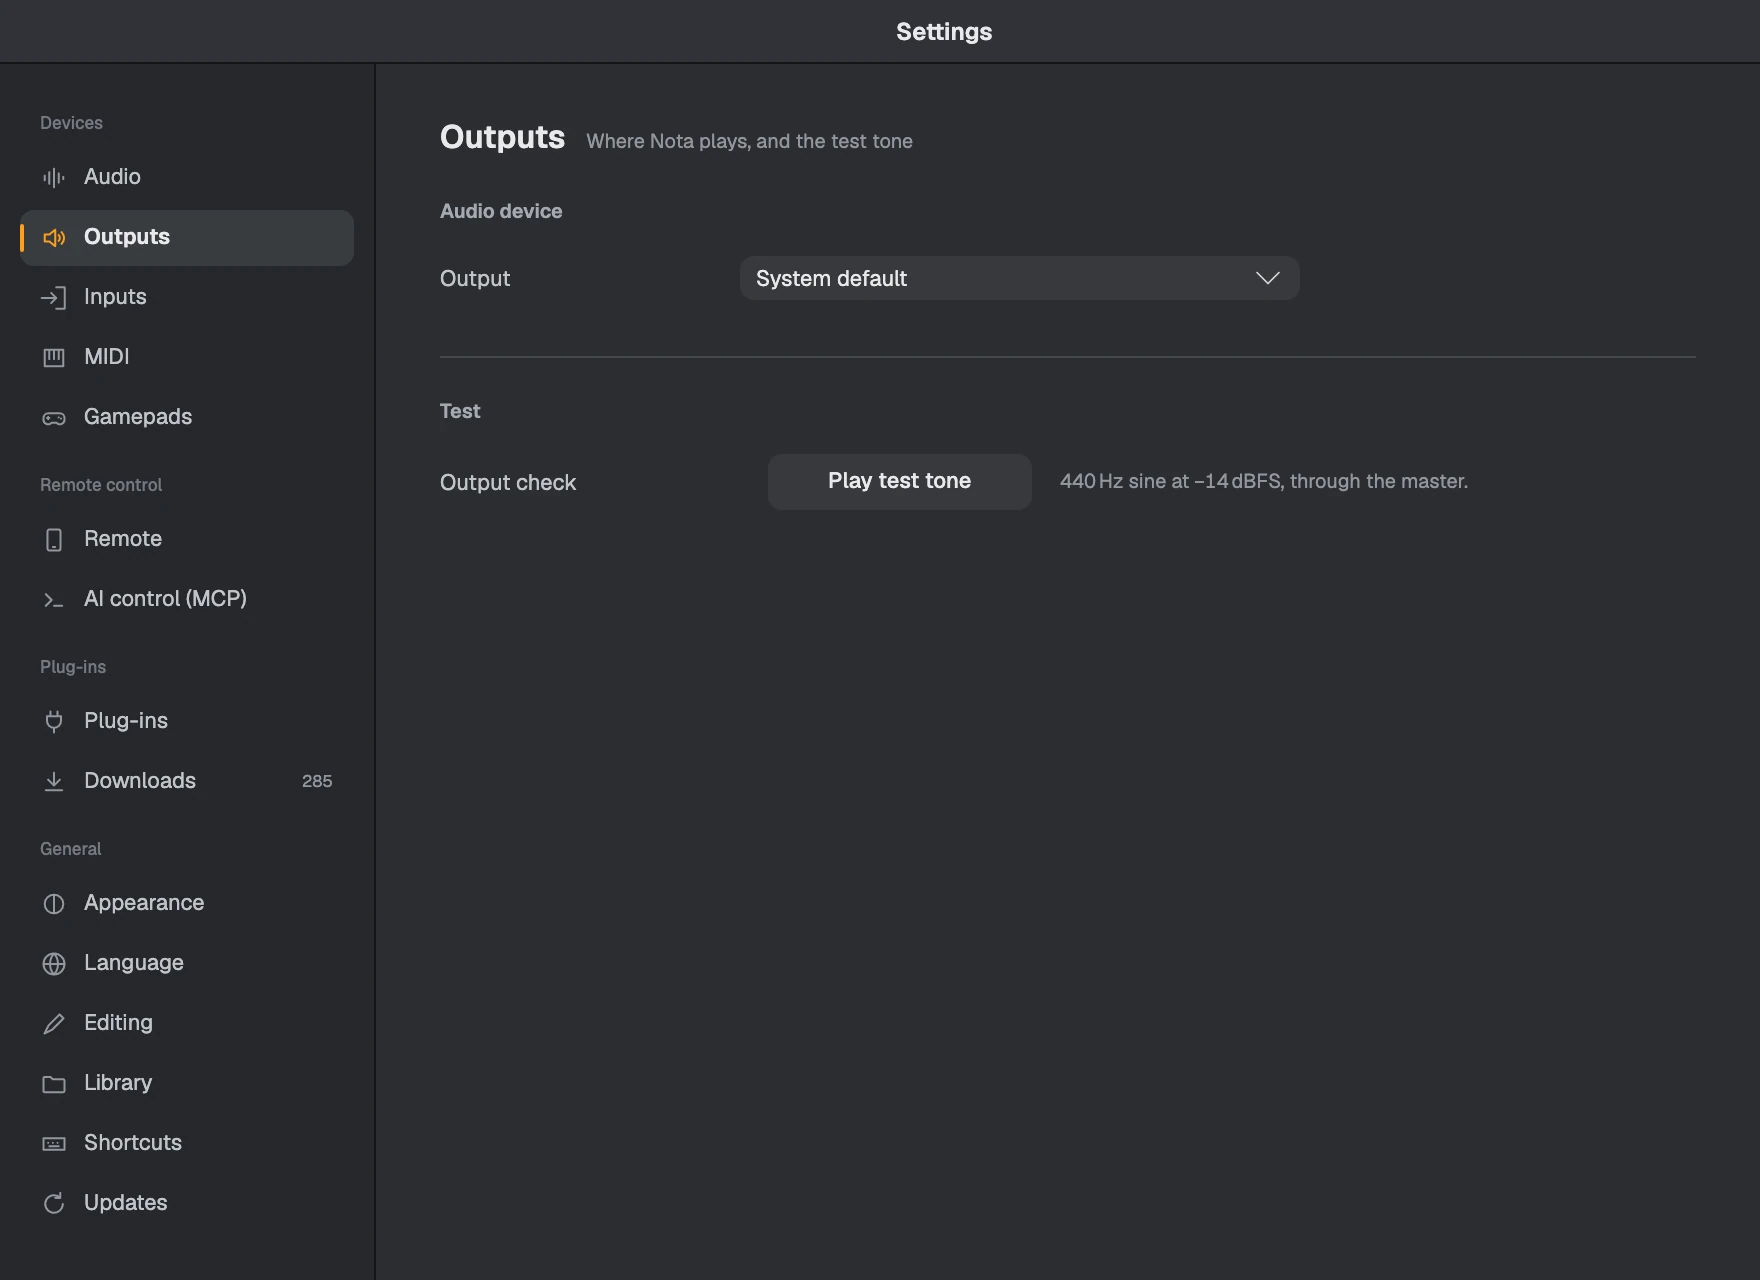
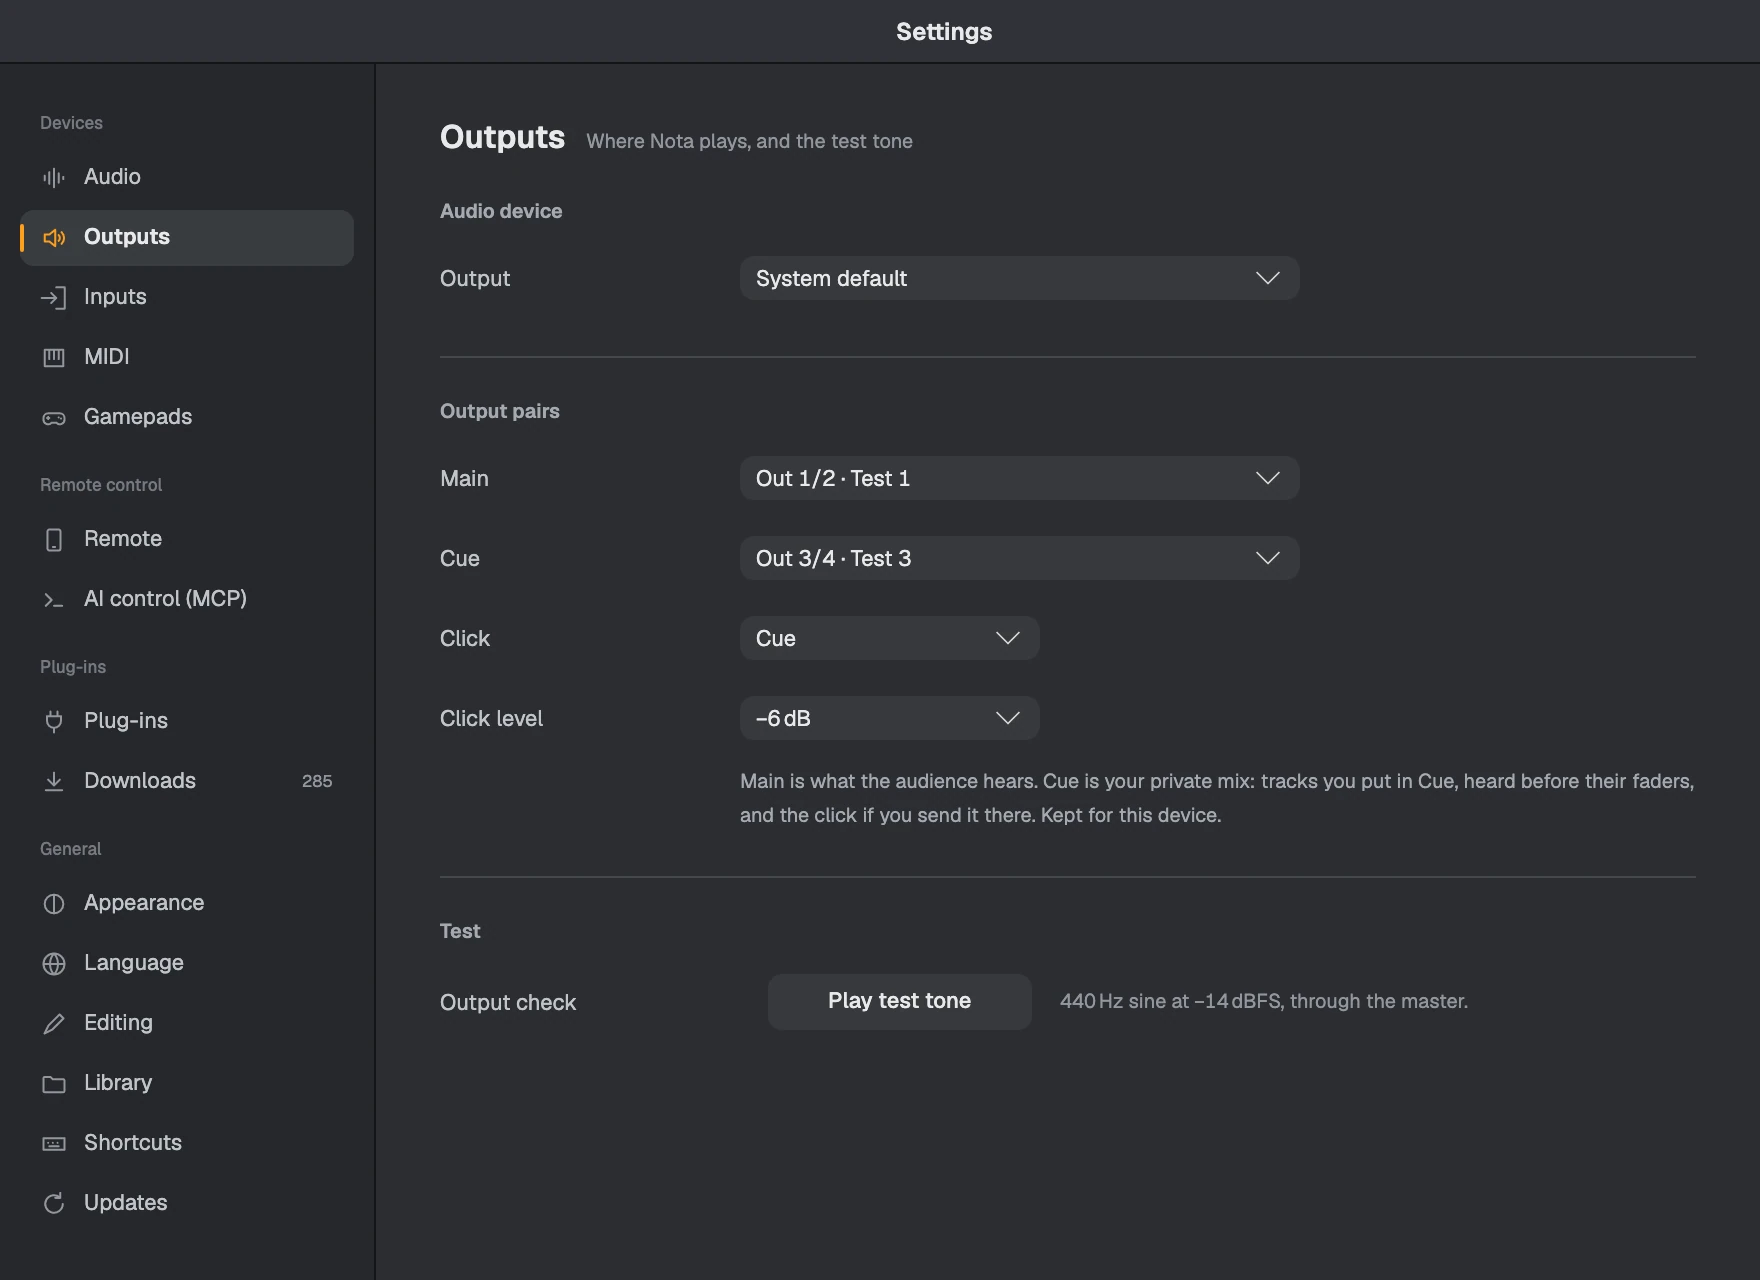
(docs) Cue: a private mix on its own output pair (EN + RU) (nota-daw/nota#483)
Settings ▸ Outputs gains the Output pairs section: Main, Cue, Click and Click level, kept per
device, and what happens when a pair is missing. The Mixer page explains Cue: the Cue key, where
Cue is taken (after the devices, before fader, pan, mute and solo), the Cue strip, the warning
when its pair is gone and Master's fallback line. Tracks, Arrangement, Session, the Track
inspector, Transport (the click to Cue) and MIDI Learn mention it where it shows up.

The shots harness gets cue / mute / cueMissing args for the mixer and prefs scenes (a pretend
4-output device) and a height arg for prefs; three new mixer shots, Outputs retaken.

diff --git a/shots/app/Scenes.cs b/shots/app/Scenes.cs
@@ -36,10 +36,14 @@ namespace NotaDocsShots;
 ///   palette   the command palette (⌘⇧P) over the main window: view, select (track), card (index of
 ///             an audio effect to select in Devices), query, down (rows to move), mods (alt | cmd | shift),
 ///             origin (devices: the Devices panel had the focus), crop (true: just the palette card)
-///   mixer     width, height
+///   mixer     width, height, group, fold, compact, select
+///             cue ("Track,Track": a pretend 4-output device with Cue on 3/4 and the click to Cue, these
+///             demo tracks in Cue), mute (a demo track to mute), cueMissing (the device shrinks to 2
+///             outputs after, so the Cue pair is missing)
 ///             update (available | downloading | ready: a newer release in the status bar, element: StatusBar)
 ///   prefs     id (the page id: Audio, Outputs, Inputs, MCP, Appearance, Language, Editing …; or
 ///             page, its index in the sidebar, for older apps), tab (a switch on the page),
+///             height, cue (as mixer: Output pairs on a pretend 4-output device),
 ///             check (Updates: run a check against the local feed first), update (as main),
 ///             themes (Appearance: user themes from shots/app/themes in the themes folder, one broken),
 ///             scrollTo (a text on the page: scroll its page so that text sits near the top)
@@ -483,6 +487,7 @@ public sealed class Scenes
             groupId = _engine.CreateGroup(members.Split(',').Select(_demo.Track).ToArray());
             if (groupId > 0) _engine.SetTrackName(groupId, gname);
         }
+        var cue = shot.Str("cue") is string cueTracks ? CueOn(cueTracks, shot.Str("mute"), shot.Bool("cueMissing")) : null;
         var view = new MixerView(_engine);
         var foldType = typeof(App).Assembly.GetType("Nota.App.GroupFold");
         var foldProp = typeof(MixerView).GetProperty("Fold", BindingFlags.NonPublic | BindingFlags.Instance);
@@ -503,6 +508,7 @@ public sealed class Scenes
         Save(win, shot.Id);
         win.Close();
         if (groupId > 0) _engine.Ungroup(groupId);   // the demo song is shared by every shot
+        cue?.Invoke();
     }
 
     private void Prefs(Shot shot)
@@ -510,10 +516,12 @@ public sealed class Scenes
         var settings = (ISettingsService)App.Services!.GetService(typeof(ISettingsService))!;
         var vm = App.Services!.GetService(typeof(MainWindowViewModel)) as MainWindowViewModel;
         var themes = shot.Bool("themes") ? SeedThemes() : null;
+        var cue = shot.Str("cue") is string cueTracks ? CueOn(cueTracks, null, false) : null;
         var win = new PreferencesWindow(new SettingsViewModel(settings), vm);
         Scale2(win);
         win.Show();
         Pump(10);
+        if (shot.Int("height") is int h) { win.Height = h * 2; Pump(10); }   // after Show: the window restores its size
         if (shot.Bool("check")) CheckUpdates(settings);
         else if (shot.Str("update") is string stage) FakeUpdate(stage);
         // Pages are chosen by id (spec 088: "Audio", "Outputs", "MCP" …); page (an index) is kept
@@ -537,6 +545,7 @@ public sealed class Scenes
         Save(win, shot.Id);
         win.Close();
         if (themes is not null) Directory.Delete(themes, true);
+        cue?.Invoke();
     }
 
     // Scroll the page holding <text> so that text sits a little below the page's top edge.
@@ -564,6 +573,47 @@ public sealed class Scenes
         foreach (var f in Directory.GetFiles(Path.Combine(AppContext.BaseDirectory, "themes"), "*.json"))
             File.Copy(f, Path.Combine(folder, Path.GetFileName(f)), true);
         return folder;
+    }
+
+    // ---- Cue output (specs/089, app 0.60+), through reflection so the harness builds against older apps
+
+    // A pretend 4-output device: Main on 1/2, Cue on 3/4, the click to Cue at −6 dB; the named demo
+    // tracks in Cue. Returns the undo, since the engine and settings are shared by every shot.
+    private Action CueOn(string tracks, string? mute, bool missing)
+    {
+        var app = typeof(App).Assembly;
+        var appl = typeof(Settings).Assembly;
+        var et = _engine.GetType();
+        var setDevice = et.GetMethod("SetTestOutputDevice") ?? throw new MissingMethodException("NotaEngine", "SetTestOutputDevice (needs app 0.60+)");
+        var settings = (ISettingsService)App.Services!.GetService(typeof(ISettingsService))!;
+        var push = app.GetType("Nota.App.OutputSetupAccess")!.GetMethod("Push")!;
+        setDevice.Invoke(_engine, new object[] { 4 });
+        object? Prop(string name) => typeof(IAudioEngine).GetProperty(name)?.GetValue(_engine) ?? et.GetProperty(name)?.GetValue(_engine);
+        string uid = (string)(typeof(IAudioEngine).GetMethod("EffectiveOutputUid") ?? et.GetMethod("EffectiveOutputUid"))!.Invoke(_engine, null)!;
+        string key = (string)appl.GetType("Nota.Application.OutputSetups")!.GetMethod("KeyOf")!.Invoke(null, new[] { Prop("AudioSystem"), uid, Prop("AsioDriver") })!;
+        var setupType = appl.GetType("Nota.Application.OutputSetup")!;
+        var setup = Activator.CreateInstance(setupType)!;
+        setupType.GetProperty("CueFirst")!.SetValue(setup, 3);
+        setupType.GetProperty("Click")!.SetValue(setup, Enum.Parse(appl.GetType("Nota.Application.ClickDestination")!, "Cue"));
+        setupType.GetProperty("ClickDb")!.SetValue(setup, -6);
+        var setups = (System.Collections.IDictionary)typeof(Settings).GetProperty("OutputSetups")!.GetValue(settings.Current)!;
+        setups[key] = setup;
+        push.Invoke(null, new object[] { _engine });
+        var setCue = typeof(IAudioEngine).GetMethod("SetTrackCue")!;
+        var ids = tracks.Split(',', StringSplitOptions.RemoveEmptyEntries).Select(_demo.Track).ToArray();
+        foreach (var id in ids) setCue.Invoke(_engine, new object[] { id, true });
+        if (mute is not null) _engine.SetTrackMute(_demo.Track(mute), true);
+        if (missing) setDevice.Invoke(_engine, new object[] { 2 });
+        Pump(5);
+        return () =>
+        {
+            foreach (var id in ids) setCue.Invoke(_engine, new object[] { id, false });
+            if (mute is not null) _engine.SetTrackMute(_demo.Track(mute), false);
+            setups.Remove(key);
+            setDevice.Invoke(_engine, new object[] { 0 });
+            push.Invoke(null, new object[] { _engine });
+            Pump(5);
+        };
     }
 
     // ---- self-update (#58), through reflection so the harness builds against older apps ------
